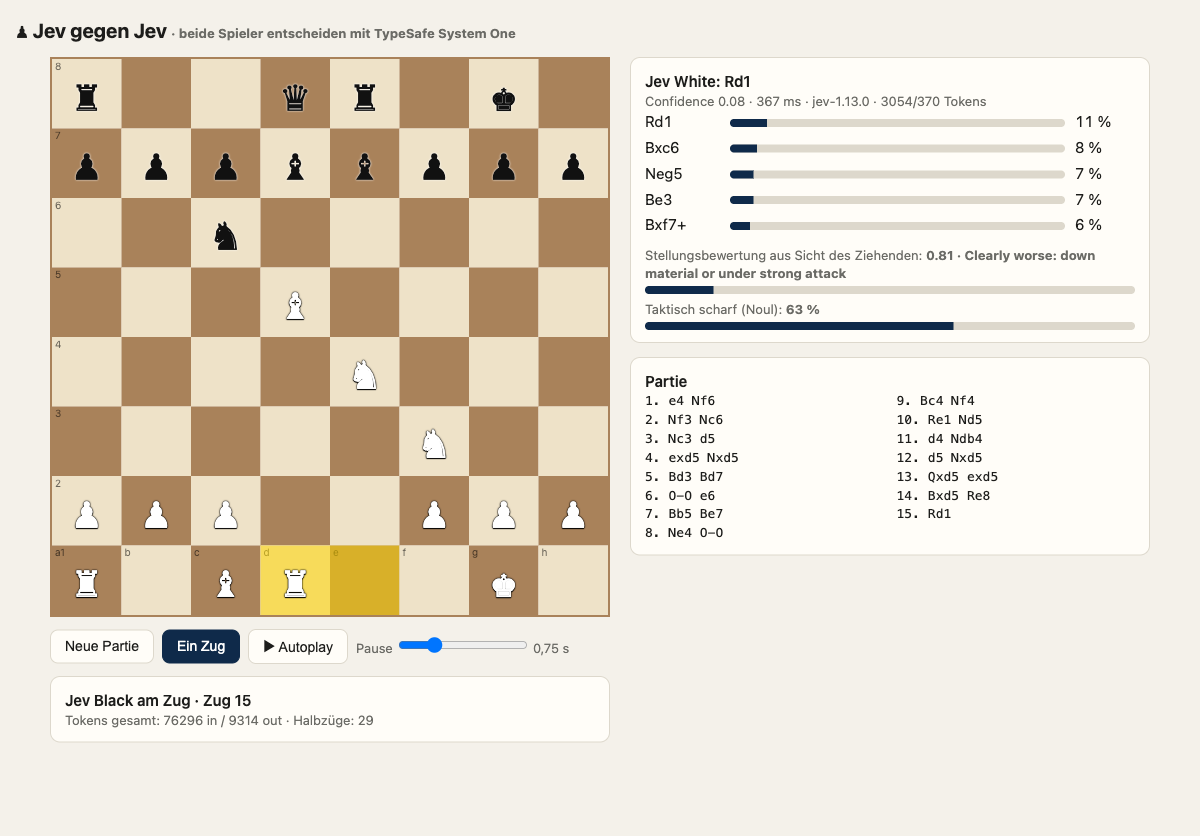
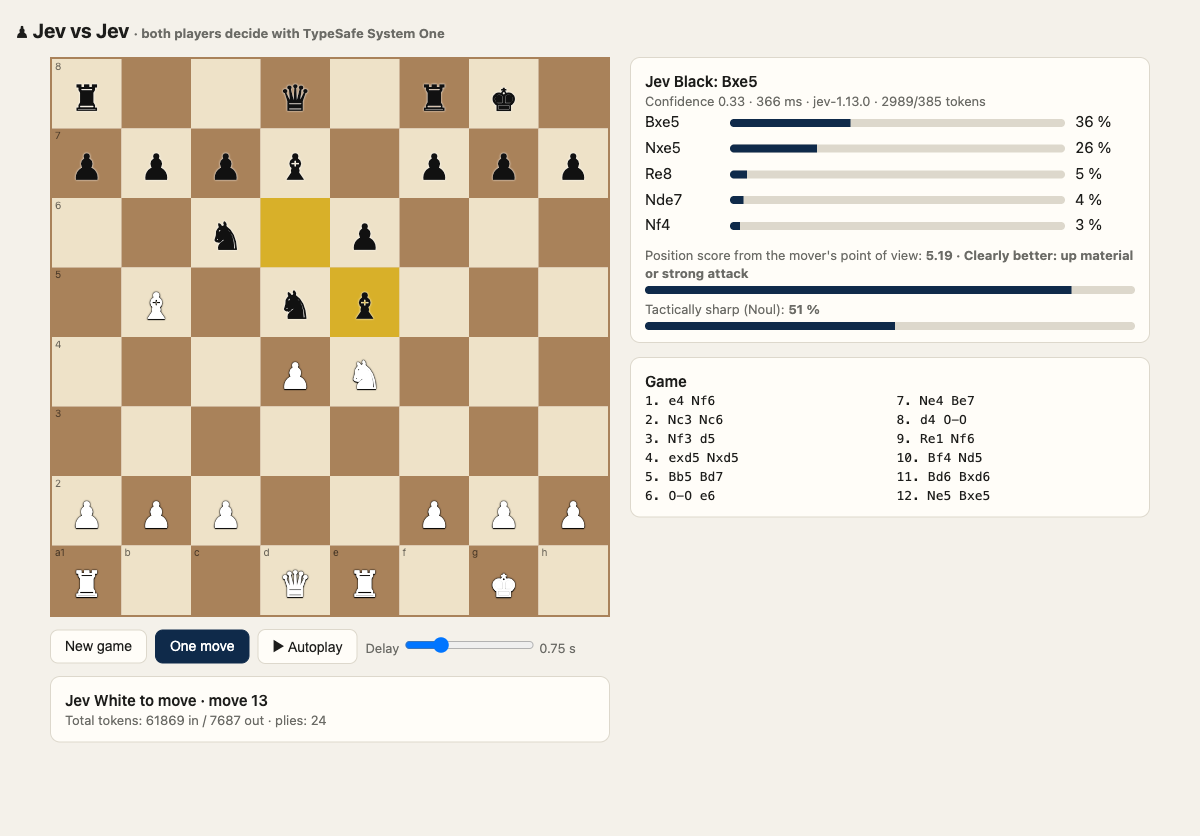
Translate UI, server messages and code comments to English

diff --git a/public/index.html b/public/index.html
@@ -1,5 +1,5 @@
 <!doctype html>
-<html lang="de">
+<html lang="en">
 <head>
 <meta charset="utf-8" />
 <meta name="viewport" content="width=device-width, initial-scale=1" />
@@ -47,15 +47,15 @@
 </style>
 </head>
 <body>
-<h1>♟ Jev gegen Jev <span class="muted">· beide Spieler entscheiden mit TypeSafe System One</span></h1>
+<h1>♟ Jev vs Jev <span class="muted">· both players decide with TypeSafe System One</span></h1>
 <div class="wrap">
   <div>
     <div class="board" id="board"></div>
     <div class="controls">
-      <button id="new">Neue Partie</button>
-      <button id="step" class="primary">Ein Zug</button>
+      <button id="new">New game</button>
+      <button id="step" class="primary">One move</button>
       <button id="auto">▶ Autoplay</button>
-      <label>Pause <input id="delay" type="range" min="0" max="3000" step="250" value="750" /> <span id="delayv">0,75 s</span></label>
+      <label>Delay <input id="delay" type="range" min="0" max="3000" step="250" value="750" /> <span id="delayv">0.75 s</span></label>
     </div>
     <div class="panel">
       <div class="status" id="status">…</div>
@@ -65,18 +65,18 @@
   </div>
   <div>
     <div class="panel">
-      <div class="status" id="lastTitle">Letzter Zug</div>
+      <div class="status" id="lastTitle">Last move</div>
       <div class="muted" id="lastMeta"></div>
       <div class="cands" id="cands"></div>
       <div style="margin-top:10px">
-        <div class="muted">Stellungsbewertung aus Sicht des Ziehenden: <b id="evalLabel">–</b></div>
+        <div class="muted">Position score from the mover's point of view: <b id="evalLabel">–</b></div>
         <div class="bar"><i id="evalBar" style="width:50%"></i></div>
-        <div class="muted" style="margin-top:6px">Taktisch scharf (Noul): <b id="tactical">–</b></div>
+        <div class="muted" style="margin-top:6px">Tactically sharp (Noul): <b id="tactical">–</b></div>
         <div class="bar"><i id="tacticalBar" style="width:0%"></i></div>
       </div>
     </div>
     <div class="panel">
-      <div class="status">Partie</div>
+      <div class="status">Game</div>
       <div class="moves" id="moves"></div>
     </div>
   </div>
@@ -124,12 +124,12 @@ function render(s) {
   renderBoard(s.fen, last);
   const side = s.turn === "w" ? s.players.w : s.players.b;
   $("status").textContent = s.gameOver ? s.result
-    : s.busy || inflight ? `${side} denkt …` : `${side} am Zug${s.inCheck ? " (Schach)" : ""} · Zug ${s.moveNumber}`;
-  $("usage").textContent = `Tokens gesamt: ${s.totalUsage.input_tokens} in / ${s.totalUsage.output_tokens} out · Halbzüge: ${s.log.length}`;
+    : s.busy || inflight ? `${side} is thinking …` : `${side} to move${s.inCheck ? " (check)" : ""} · move ${s.moveNumber}`;
+  $("usage").textContent = `Total tokens: ${s.totalUsage.input_tokens} in / ${s.totalUsage.output_tokens} out · plies: ${s.log.length}`;
 
   if (last) {
     $("lastTitle").textContent = `${last.player}: ${last.san}`;
-    $("lastMeta").textContent = `Confidence ${last.confidence.toFixed(2)} · ${last.ms} ms · ${last.model} · ${last.usage.input_tokens}/${last.usage.output_tokens} Tokens`;
+    $("lastMeta").textContent = `Confidence ${last.confidence.toFixed(2)} · ${last.ms} ms · ${last.model} · ${last.usage.input_tokens}/${last.usage.output_tokens} tokens`;
     $("cands").innerHTML = last.top.map(c =>
       `<span>${c.san}</span><div class="bar"><i style="width:${(c.p*100).toFixed(1)}%"></i></div><span>${pct(c.p)}</span>`).join("");
     $("evalLabel").textContent = `${last.evaluation.toFixed(2)} · ${last.evaluationLabel}`;
@@ -137,7 +137,7 @@ function render(s) {
     $("tactical").textContent = pct(last.tactical);
     $("tacticalBar").style.width = (last.tactical * 100).toFixed(0) + "%";
   } else {
-    $("lastTitle").textContent = "Noch kein Zug";
+    $("lastTitle").textContent = "No move yet";
     $("lastMeta").textContent = ""; $("cands").innerHTML = "";
     $("evalLabel").textContent = "–"; $("evalBar").style.width = "50%";
     $("tactical").textContent = "–"; $("tacticalBar").style.width = "0%";
@@ -164,7 +164,7 @@ async function step() {
   if (inflight) return;
   inflight = true; $("err").textContent = ""; $("step").disabled = true;
   try { render(await api("/api/step", "POST")); }
-  catch (e) { $("err").textContent = "Fehler: " + e.message; if (auto) toggleAuto(false); }
+  catch (e) { $("err").textContent = "Error: " + e.message; if (auto) toggleAuto(false); }
   finally { inflight = false; $("step").disabled = false; }
 }
 
@@ -185,7 +185,7 @@ async function loop() {
 $("new").onclick = async () => { toggleAuto(false); render(await api("/api/new", "POST")); };
 $("step").onclick = step;
 $("auto").onclick = () => toggleAuto();
-$("delay").oninput = () => $("delayv").textContent = (+$("delay").value / 1000).toLocaleString("de-DE") + " s";
+$("delay").oninput = () => $("delayv").textContent = (+$("delay").value / 1000).toLocaleString("en-US") + " s";
 
 api("/api/state").then(render).catch(e => $("err").textContent = e.message);
 </script>

diff --git a/jev-player.js b/jev-player.js
@@ -1,11 +1,11 @@
-// Jev als Schachspieler.
+// Jev as a chess player.
 //
-// Arbeitsteilung nach dem TypeSafe-Modell: chess.js kennt die Regeln und
-// erzeugt die legalen Züge (Code). Jev bekommt die Stellung plus eine
-// Beschreibung jedes legalen Zugs als Choice-Optionen und wählt einen aus
-// (Urteil). Zusätzlich fragen wir im selben Aufruf eine Stellungsbewertung
-// (Score) und eine Noul-Frage nach taktischer Schärfe ab. Beide sind nur
-// Anzeige-Signale und beeinflussen den Zug nicht.
+// Division of labour, the TypeSafe way: chess.js knows the rules and
+// generates the legal moves (code). Jev receives the position plus a
+// description of every legal move as Choice options and picks one
+// (judgment). In the same call we also ask for a position score (Score)
+// and whether the position is tactically sharp (Noul). Both are display
+// signals only and do not influence the move.
 
 import { Chess } from "chess.js";
 import { TypeSafeClient, choice, score, noul } from "@typesafe-ai/sdk";
@@ -15,7 +15,7 @@ const client = new TypeSafeClient({ timeout: 20000 });
 const PIECE_NAMES = { p: "pawn", n: "knight", b: "bishop", r: "rook", q: "queen", k: "king" };
 const PIECE_VALUES = { p: 1, n: 3, b: 3, r: 5, q: 9, k: 0 };
 
-// Zwei Spielstile, damit die beiden Jev-Instanzen sich unterscheiden.
+// Two playing styles so the two Jev instances differ.
 export const PLAYERS = {
   w: {
     name: "Jev White",
@@ -39,17 +39,17 @@ function materialBalance(chess) {
       sum += (sq.color === "w" ? 1 : -1) * PIECE_VALUES[sq.type];
     }
   }
-  return sum; // positiv = Weiß vorn
+  return sum; // positive = white is ahead
 }
 
-// Kann der Gegner nach diesem Zug die gezogene Figur auf ihrem Zielfeld schlagen?
+// After this move, can the opponent capture the moved piece on its destination square?
 function attackedAfter(chess, move) {
   const probe = new Chess(chess.fen());
   probe.move(move.san);
   if (probe.isGameOver()) return { attacked: false, defended: false };
   const enemy = probe.moves({ verbose: true }).filter((m) => m.to === move.to && m.captured);
   if (enemy.length === 0) return { attacked: false, defended: false };
-  // Verteidigt? Wir prüfen, ob nach dem billigsten gegnerischen Schlag ein Rückschlag existiert.
+  // Defended? Check whether a recapture exists after the cheapest enemy capture.
   const cheapest = enemy.reduce((a, b) => (PIECE_VALUES[a.piece] <= PIECE_VALUES[b.piece] ? a : b));
   const probe2 = new Chess(probe.fen());
   probe2.move(cheapest.san);
@@ -106,7 +106,7 @@ function buildState(chess, color) {
 }
 
 /**
- * Lässt Jev für die Seite am Zug einen Zug wählen.
+ * Lets Jev choose a move for the side to move.
  * @param {Chess} chess
  * @returns {{ san: string, confidence: number, probabilities: Record<string, number>,
  *             evaluation: number, evaluationLegend: Record<string,string>, tactical: number,
@@ -153,8 +153,8 @@ export async function pickMove(chess) {
   });
 
   const a = answers.move;
-  // Sicherheitsnetz: die Antwort ist immer ein Optionsschlüssel, also ein legaler Zug.
-  // Falls das Modell doch etwas anderes liefert, nehmen wir die wahrscheinlichste legale Option.
+  // Safety net: the answer is always an option key, i.e. a legal move.
+  // Should the model ever return something else, take the most probable legal option.
   let san = a.choice;
   if (!criteria[san]) {
     san = Object.entries(a.probabilities)

diff --git a/server.js b/server.js
@@ -1,13 +1,13 @@
-// Kleiner Express-Server: hält eine Partie im Speicher, lässt auf Anfrage
-// Jev den nächsten Zug machen und liefert die statische Oberfläche aus.
-// Der TypeSafe-Key bleibt serverseitig (TYPESAFE_API_KEY im Environment).
+// Small Express server: keeps one game in memory, lets Jev make the next
+// move on request and serves the static UI.
+// The TypeSafe key stays server-side (TYPESAFE_API_KEY in the environment).
 
 import express from "express";
 import { Chess } from "chess.js";
 import { pickMove, PLAYERS } from "./jev-player.js";
 
 if (!process.env.TYPESAFE_API_KEY) {
-  console.error("TYPESAFE_API_KEY ist nicht gesetzt.");
+  console.error("TYPESAFE_API_KEY is not set.");
   process.exit(1);
 }
 
@@ -16,7 +16,7 @@ app.use(express.json());
 app.use(express.static("public"));
 
 let chess = new Chess();
-let log = []; // ein Eintrag pro gespieltem Zug, inkl. Jev-Antworten
+let log = []; // one entry per played move, including Jev's answers
 let totalUsage = { input_tokens: 0, output_tokens: 0 };
 let busy = false;
 
@@ -38,12 +38,12 @@ function snapshot() {
 
 function resultText() {
   if (!chess.isGameOver()) return null;
-  if (chess.isCheckmate()) return `Schachmatt. ${chess.turn() === "w" ? PLAYERS.b.name : PLAYERS.w.name} gewinnt.`;
-  if (chess.isStalemate()) return "Patt. Remis.";
-  if (chess.isThreefoldRepetition()) return "Dreifache Stellungswiederholung. Remis.";
-  if (chess.isInsufficientMaterial()) return "Ungenügendes Material. Remis.";
-  if (chess.isDrawByFiftyMoves?.() || chess.isDraw()) return "Remis (50-Züge-Regel).";
-  return "Remis.";
+  if (chess.isCheckmate()) return `Checkmate. ${chess.turn() === "w" ? PLAYERS.b.name : PLAYERS.w.name} wins.`;
+  if (chess.isStalemate()) return "Stalemate. Draw.";
+  if (chess.isThreefoldRepetition()) return "Threefold repetition. Draw.";
+  if (chess.isInsufficientMaterial()) return "Insufficient material. Draw.";
+  if (chess.isDrawByFiftyMoves?.() || chess.isDraw()) return "Draw (fifty-move rule).";
+  return "Draw.";
 }
 
 app.get("/api/state", (_req, res) => res.json(snapshot()));
@@ -56,7 +56,7 @@ app.post("/api/new", (_req, res) => {
 });
 
 app.post("/api/step", async (_req, res) => {
-  if (busy) return res.status(409).json({ error: "Jev denkt noch." });
+  if (busy) return res.status(409).json({ error: "Jev is still thinking." });
   if (chess.isGameOver()) return res.json(snapshot());
   busy = true;
   const color = chess.turn();
@@ -96,4 +96,4 @@ app.post("/api/step", async (_req, res) => {
 });
 
 const port = Number(process.env.PORT ?? 3000);
-app.listen(port, () => console.log(`TypeSafe-Schach läuft auf http://localhost:${port}`));
+app.listen(port, () => console.log(`TypeSafe chess is running at http://localhost:${port}`));

diff --git a/README.md b/README.md
@@ -86,7 +86,7 @@ npm start
 # open http://localhost:3000
 ```
 
-Click **Ein Zug** for a single move or **▶ Autoplay** to let the two Jevs play a full game.
+Click **One move** for a single move or **▶ Autoplay** to let the two Jevs play a full game.
 The right-hand panel shows the top five candidate moves with their probabilities, the confidence,
 the position score, the sharpness estimate, latency and token usage per move.
 
